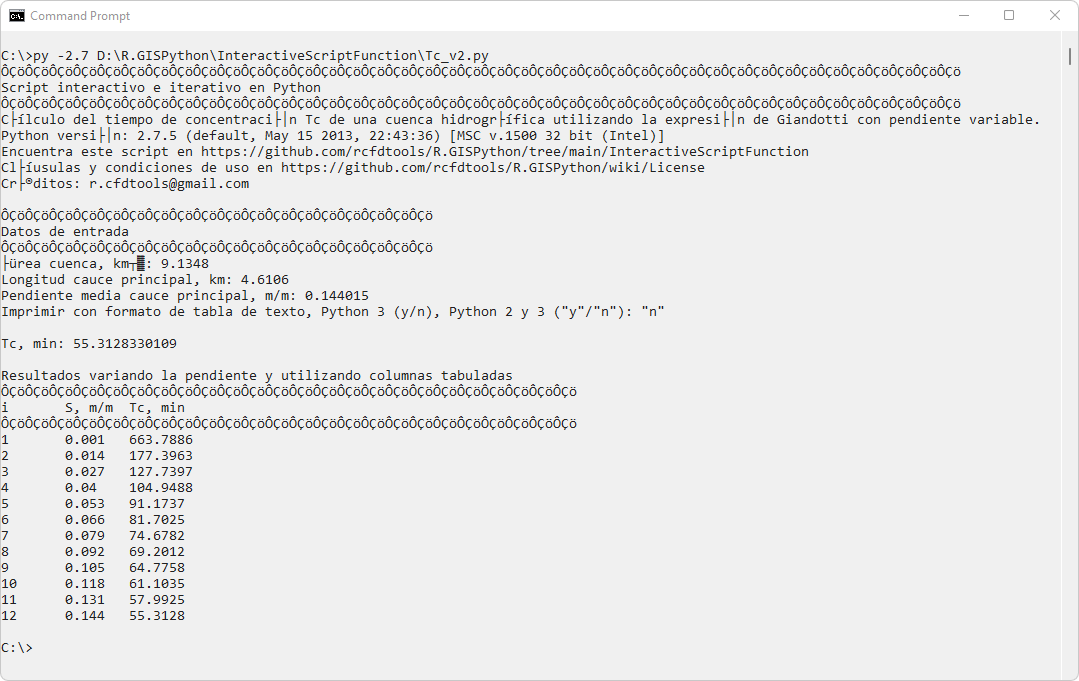
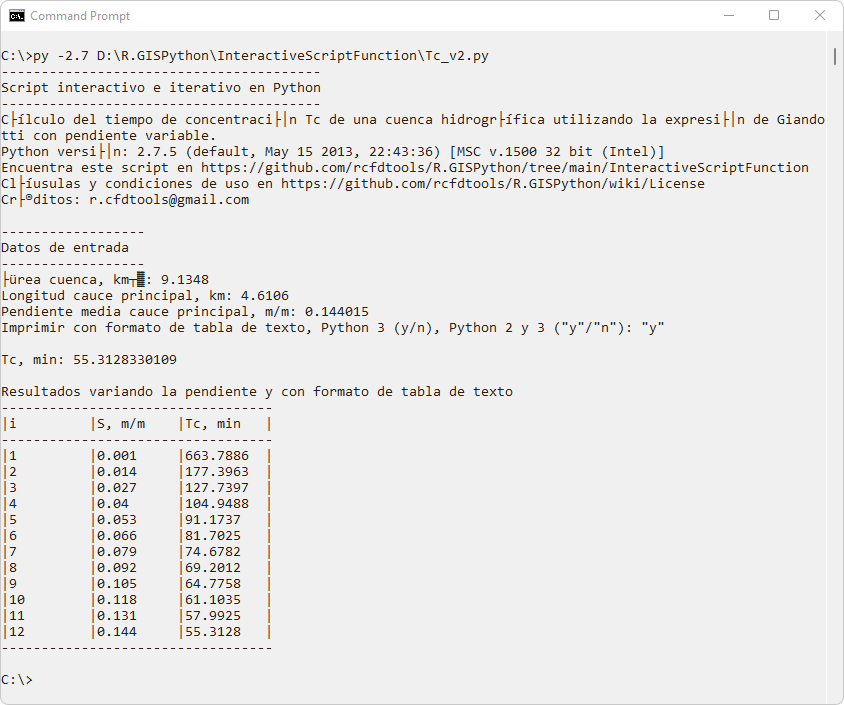
Actualización general.

diff --git a/InteractiveScriptFunction/Readme.md b/InteractiveScriptFunction/Readme.md
@@ -187,7 +187,7 @@ Para ejecutar desde la consola de comandos CMD del sistema operativo Windows usa
 
 Ejecución en consola CMD Python 2.7.5 de ArcGIS for Desktop 10.2.2. 
 
-> En esta versión, la codificación de texto no imprime correctamente caracteres acentuados del español ni la línea de separación utilizada en los títulos y tablas.
+> En esta versión, la codificación de texto no imprime correctamente caracteres acentuados del español ni la línea de separación utilizada en los títulos y tablas cuando se usan caracteres diferentes al guión o caracteres ascii para tablas de texto.
 
 ![Python2.7.5ArcGISDesktop10.2.2CMD.png](https://github.com/rcfdtools/R.GISPython/blob/main/InteractiveScriptFunction/Screenshot/Python2.7.5ArcGISDesktop10.2.2CMD.png)
 
